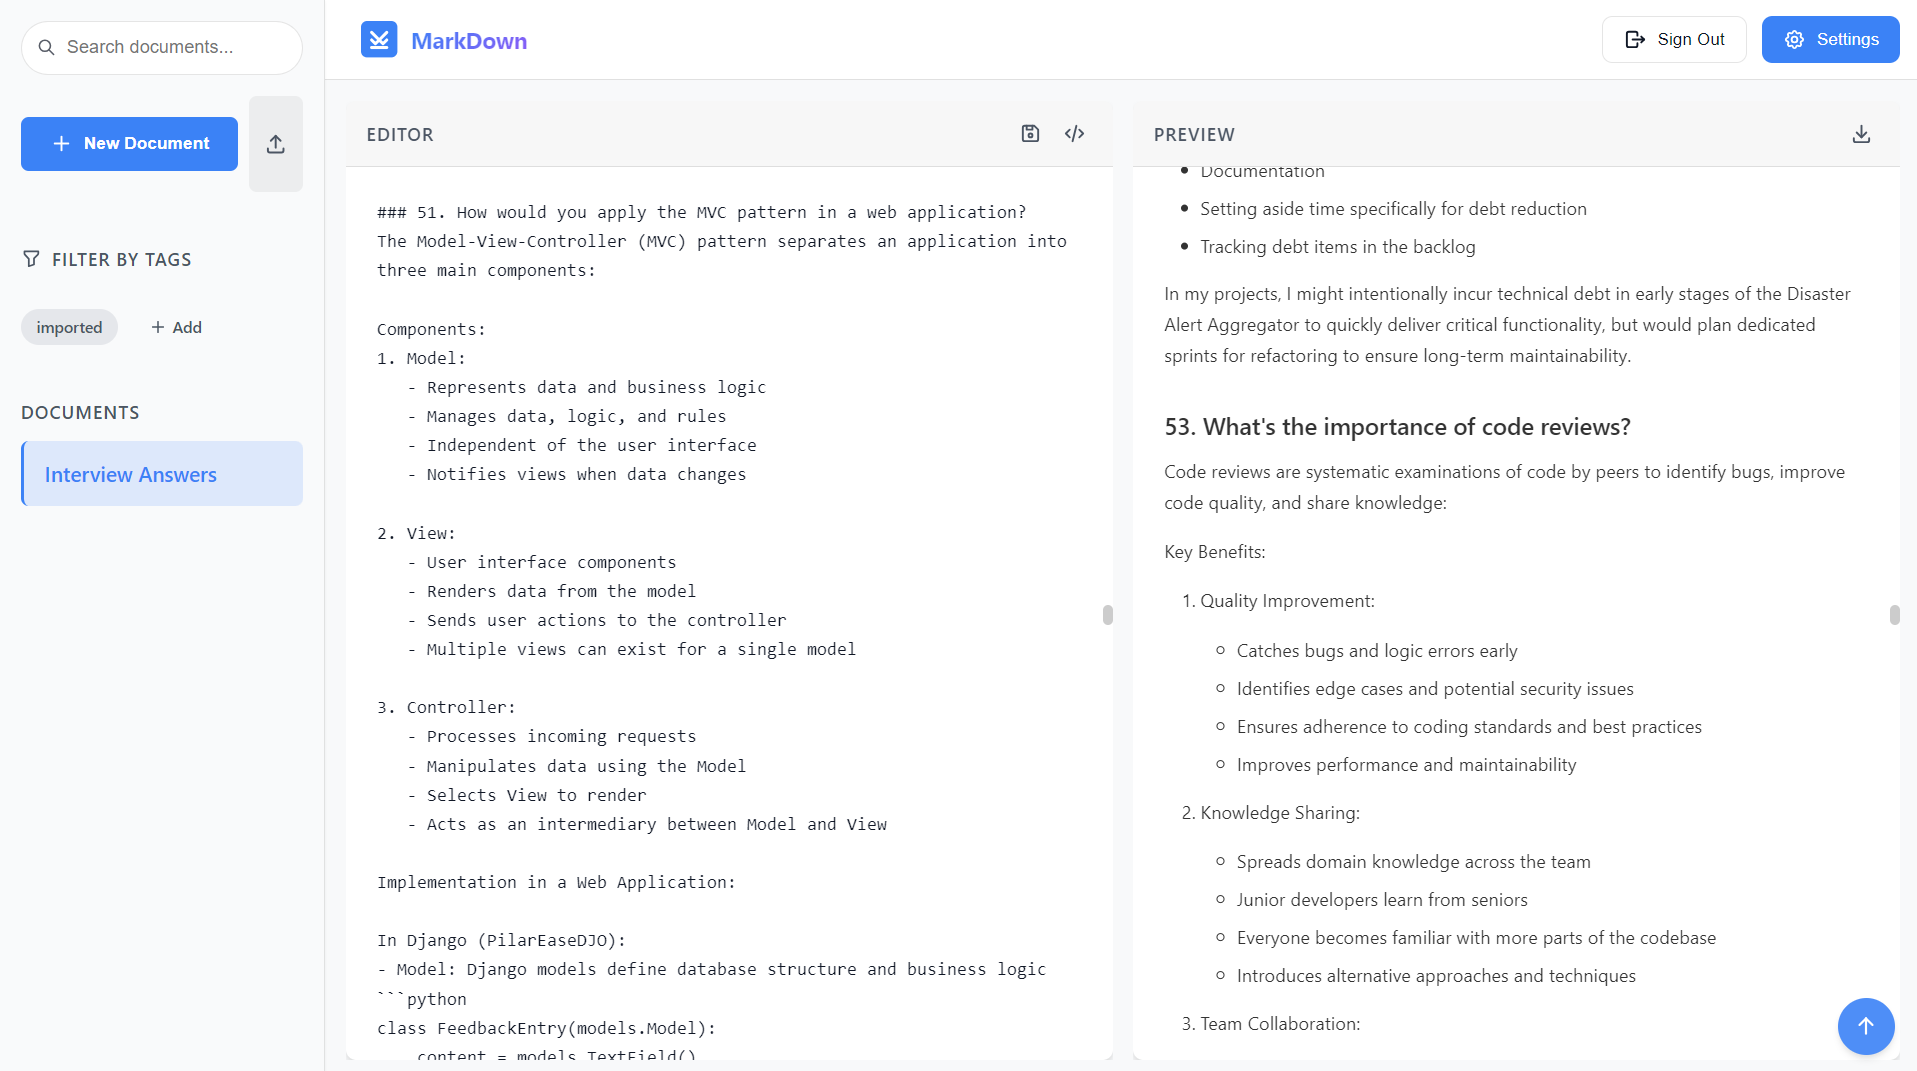
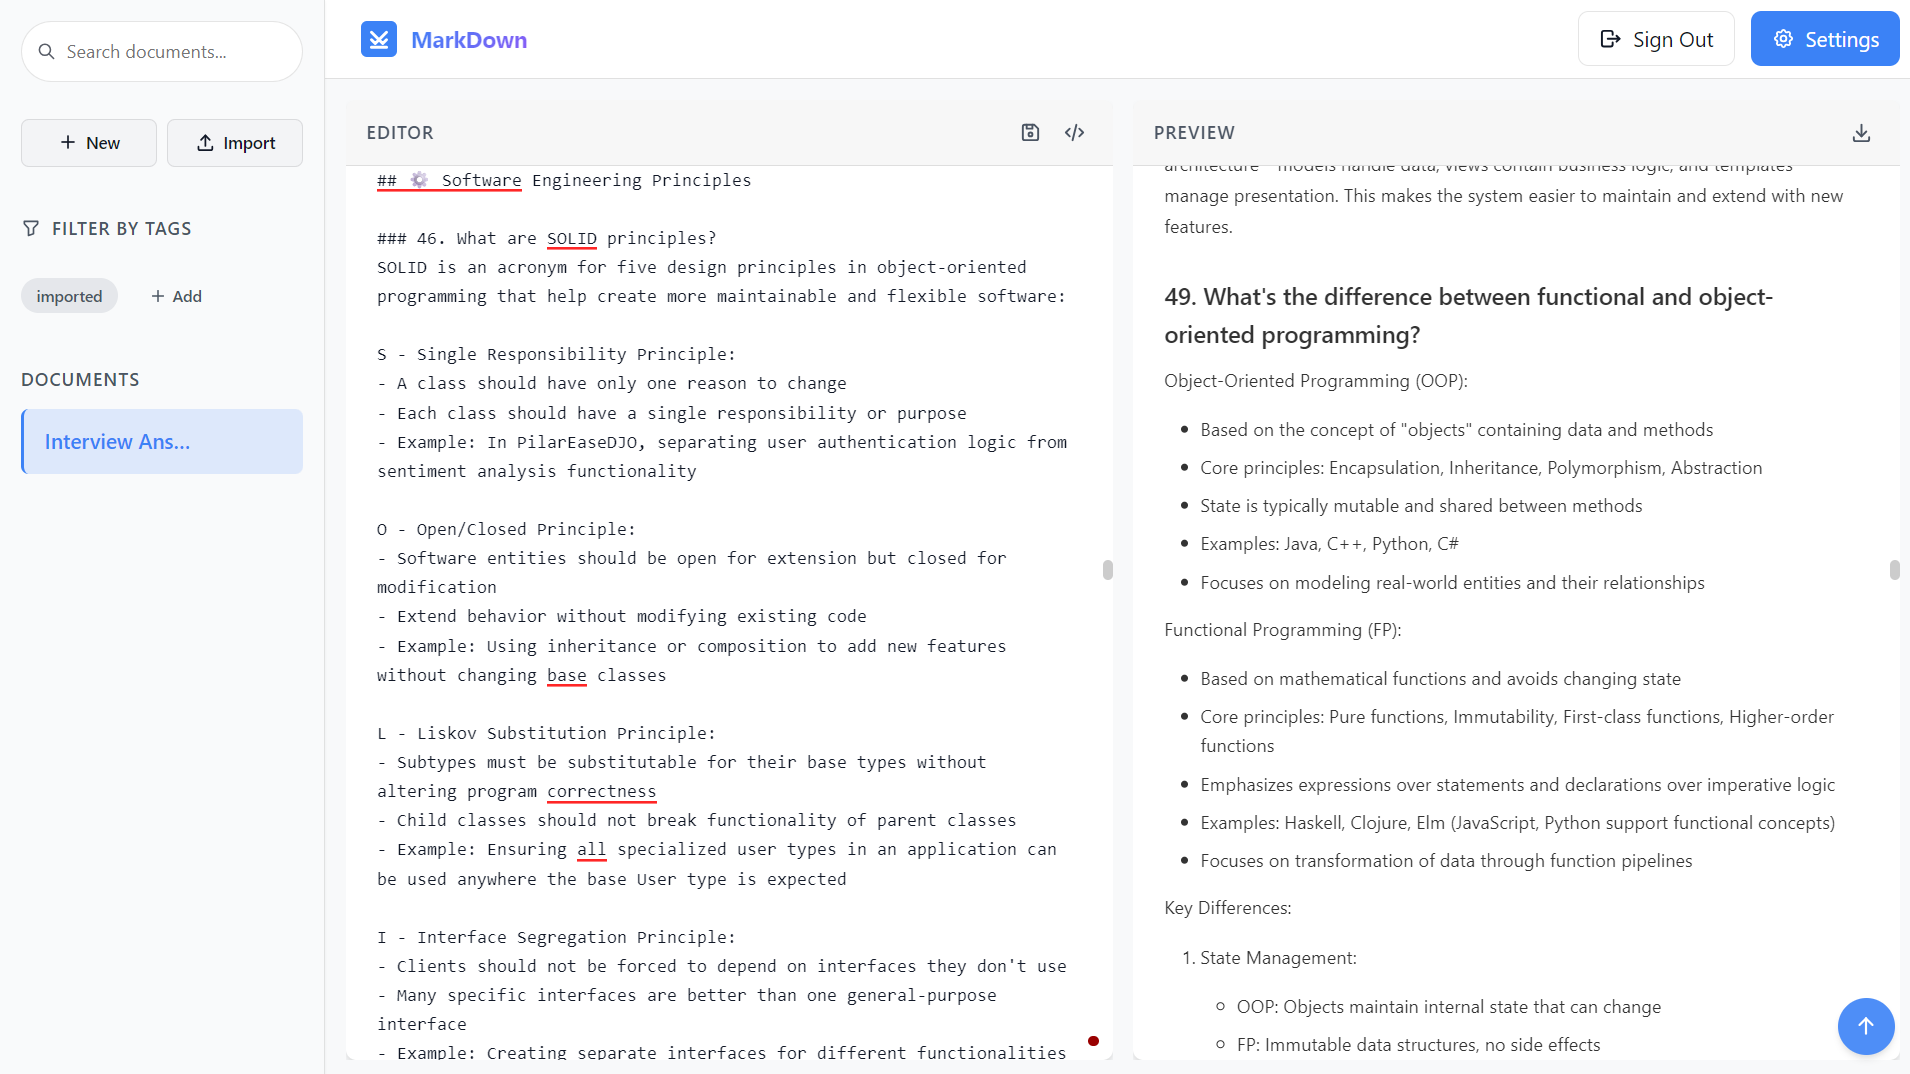
styling: update ui action buttons

diff --git a/src/components/Sidebar.tsx b/src/components/Sidebar.tsx
@@ -1,8 +1,9 @@
 import React, { useState, useRef, useEffect } from 'react';
 import { useAppContext } from '../context/AppContext';
-import { IconSearch, IconPlus, IconTag, IconX, IconUpload, IconEdit, IconFilter, IconTrash } from '@tabler/icons-react';
+import { IconSearch, IconPlus, IconTag, IconX, IconUpload, IconEdit, IconFilter, IconTrash, IconAlertTriangle } from '@tabler/icons-react';
 import { MarkdownDocument } from '../supabase';
 import { showSuccess, showError, showInfo } from '../utils/toast';
+import { Modal, Button, Group, Text } from '@mantine/core';
 
 const Sidebar: React.FC = () => {
   const {
@@ -27,6 +28,8 @@ const Sidebar: React.FC = () => {
   const [isDragging, setIsDragging] = useState(false);
   const [renamingDocId, setRenamingDocId] = useState<string | null>(null);
   const [renameValue, setRenameValue] = useState('');
+  const [deleteModalOpen, setDeleteModalOpen] = useState(false);
+  const [documentToDelete, setDocumentToDelete] = useState<MarkdownDocument | null>(null);
   const fileInputRef = useRef<HTMLInputElement>(null);
   const renameInputRef = useRef<HTMLInputElement>(null);
   
@@ -206,19 +209,26 @@ const Sidebar: React.FC = () => {
     setRenamingDocId(null);
   };
   
-  const handleDeleteDocument = async (doc: MarkdownDocument, e: React.MouseEvent) => {
+  const openDeleteModal = (doc: MarkdownDocument, e: React.MouseEvent) => {
     e.stopPropagation(); // Prevent document selection when clicking delete
-    
-    if (window.confirm(`Are you sure you want to delete "${doc.title || 'Untitled'}"?`)) {
-      try {
-        // First, select the document to make it the current document
-        selectDocument(doc);
-        // Then delete it using the context function
-        await deleteCurrentDocument();
-      } catch (error) {
-        console.error('Error deleting document:', error);
-        showError('Failed to delete document. Please try again.');
-      }
+    setDocumentToDelete(doc);
+    setDeleteModalOpen(true);
+  };
+
+  const handleDeleteDocument = async () => {
+    if (!documentToDelete) return;
+
+    try {
+      // First, select the document to make it the current document
+      selectDocument(documentToDelete);
+      // Then delete it using the context function
+      await deleteCurrentDocument();
+      showSuccess(`"${documentToDelete.title || 'Untitled'}" has been deleted`);
+      setDocumentToDelete(null);
+      setDeleteModalOpen(false);
+    } catch (error) {
+      console.error('Error deleting document:', error);
+      showError('Failed to delete document. Please try again.');
     }
   };
   
@@ -346,6 +356,42 @@ const Sidebar: React.FC = () => {
       onDragLeave={handleDragLeave}
       onDrop={handleDrop}
     >
+      {/* Delete Confirmation Modal */}
+      <Modal
+        opened={deleteModalOpen}
+        onClose={() => setDeleteModalOpen(false)}
+        title={<Text size="lg" fw={700} style={{ display: 'flex', alignItems: 'center', gap: '0.5rem' }}>
+          <IconAlertTriangle color="var(--danger-color)" size={20} />
+          Confirm Deletion
+        </Text>}
+        overlayProps={{
+          opacity: 0.55,
+          blur: 3,
+        }}
+        centered
+        withCloseButton
+        closeButtonProps={{
+          'aria-label': 'Close',
+        }}
+        radius="md"
+        size="md"
+      >
+        <div style={{ marginBottom: '1rem' }}>
+          <Text>
+            Are you sure you want to delete "<strong>{documentToDelete?.title || 'Untitled'}</strong>"? 
+            This action cannot be undone.
+          </Text>
+        </div>
+        <Group justify="flex-end" mt="xl">
+          <Button variant="default" onClick={() => setDeleteModalOpen(false)}>
+            Cancel
+          </Button>
+          <Button color="red" onClick={handleDeleteDocument}>
+            Yes, Delete
+          </Button>
+        </Group>
+      </Modal>
+
       {isDragging ? (
         <div className="drag-active">
           <p>Drop markdown files here to import</p>
@@ -364,8 +410,8 @@ const Sidebar: React.FC = () => {
             />
           </form>
           
-          {/* Documents actions */}
-          <div style={{ display: 'flex', gap: '0.5rem', marginBottom: '1rem' }}>
+          {/* Documents actions - Compact design */}
+          <div className="document-actions-container">
             <button 
               onClick={async () => {
                 try {
@@ -374,21 +420,24 @@ const Sidebar: React.FC = () => {
                   console.error('Error creating document:', error);
                 }
               }}
-              className="add-document-btn"
+              className="document-action-compact"
               aria-label="Create new document"
+              title="Create new document"
             >
-              <IconPlus size={18} /> New Document
+              <IconPlus size={16} />
+              <span>New</span>
             </button>
             
             <button
               onClick={() => fileInputRef.current?.click()}
-              className="editor-action-button"
-              style={{ padding: '0.75rem', backgroundColor: darkMode ? 'rgba(255,255,255,0.05)' : 'rgba(0,0,0,0.05)' }}
+              className="document-action-compact"
               aria-label="Import markdown files"
               title="Import markdown files"
             >
-              <IconUpload size={18} />
+              <IconUpload size={16} />
+              <span>Import</span>
             </button>
+            
             <input
               type="file"
               ref={fileInputRef}
@@ -501,13 +550,16 @@ const Sidebar: React.FC = () => {
                           onBlur={() => cancelRenaming()}
                           style={{
                             border: 'none',
-                            borderBottom: `1px solid ${darkMode ? 'rgba(255,255,255,0.2)' : 'rgba(0,0,0,0.2)'}`,
-                            background: 'transparent',
-                            padding: '0.25rem 0',
+                            backgroundColor: 'rgba(59, 130, 246, 0.1)',
+                            borderRadius: '6px',
+                            padding: '0.5rem',
                             outline: 'none',
                             color: darkMode ? 'var(--text-dark)' : 'var(--text-light)',
-                            width: '100%'
+                            width: '100%',
+                            fontWeight: '500',
+                            boxShadow: 'inset 0 0 0 1px var(--primary-light)',
                           }}
+                          autoFocus
                         />
                       </form>
                     ) : (
@@ -519,15 +571,17 @@ const Sidebar: React.FC = () => {
                         <div style={{ opacity: 0.7, fontSize: '0.75rem', marginLeft: '0.5rem', display: 'flex', gap: '0.5rem' }}>
                           <button
                             onClick={(e) => startRenaming(doc, e)}
-                            className="document-close-btn"
+                            className="document-action-btn"
                             aria-label="Rename document"
+                            title="Rename document"
                           >
                             <IconEdit size={16} />
                           </button>
                           <button
-                            onClick={(e) => handleDeleteDocument(doc, e)}
-                            className="document-close-btn"
+                            onClick={(e) => openDeleteModal(doc, e)}
+                            className="document-action-btn document-delete-btn"
                             aria-label="Delete document"
+                            title="Delete document"
                           >
                             <IconTrash size={16} />
                           </button>

diff --git a/src/App.css b/src/App.css
@@ -319,6 +319,79 @@ div:hover > .document-close-btn {
   color: #ff5252 !important;
 }
 
+/* Document action buttons */
+div:hover > .document-action-btn {
+  opacity: 1;
+  transform: translateX(0);
+}
+
+.document-action-btn {
+  visibility: visible !important;
+  opacity: 0;
+  transform: translateX(5px);
+  transition: opacity 0.2s ease, transform 0.2s ease, background-color 0.2s ease, color 0.2s ease;
+  border: none;
+  background-color: transparent;
+  border-radius: var(--radius-sm);
+  width: 26px;
+  height: 26px;
+  display: flex;
+  align-items: center;
+  justify-content: center;
+  cursor: pointer;
+  padding: 0;
+}
+
+.document-action-btn:hover {
+  background-color: rgba(59, 130, 246, 0.1) !important;
+  color: var(--primary-color) !important;
+}
+
+.document-delete-btn:hover {
+  background-color: rgba(239, 68, 68, 0.1) !important;
+  color: var(--danger-color) !important;
+}
+
+/* Compact document actions */
+.document-actions-container {
+  display: flex;
+  gap: 0.5rem;
+  margin: 0.75rem 0;
+}
+
+.document-action-compact {
+  flex: 1;
+  display: flex;
+  align-items: center;
+  justify-content: center;
+  gap: 0.35rem;
+  background-color: var(--bg-light-hover);
+  border: 1px solid var(--border-color);
+  border-radius: var(--radius-md);
+  padding: 0.5rem;
+  font-size: 0.8rem;
+  font-weight: 500;
+  color: var(--text-light);
+  transition: all var(--transition-fast);
+  cursor: pointer;
+}
+
+.dark-mode .document-action-compact {
+  background-color: var(--bg-dark-hover);
+  border-color: var(--border-color-dark);
+  color: var(--text-dark);
+}
+
+.document-action-compact:hover {
+  background-color: rgba(59, 130, 246, 0.1);
+  color: var(--primary-color);
+  transform: translateY(-1px);
+}
+
+.document-action-compact:active {
+  transform: translateY(0);
+}
+
 /* Drag and drop zone */
 .drag-active {
   border: 2px dashed var(--primary-color) !important;

diff --git a/src/index.tsx b/src/index.tsx
@@ -4,14 +4,20 @@ import './index.css';
 import App from './App';
 import reportWebVitals from './reportWebVitals';
 import { Analytics } from '@vercel/analytics/react';
+import { MantineProvider, createTheme } from '@mantine/core';
+import '@mantine/core/styles.css';
+
+const theme = createTheme({});
 
 const root = ReactDOM.createRoot(
   document.getElementById('root') as HTMLElement
 );
 root.render(
   <React.StrictMode>
-    <App />
-    <Analytics />
+    <MantineProvider theme={theme}>
+      <App />
+      <Analytics />
+    </MantineProvider>
   </React.StrictMode>
 );
 
